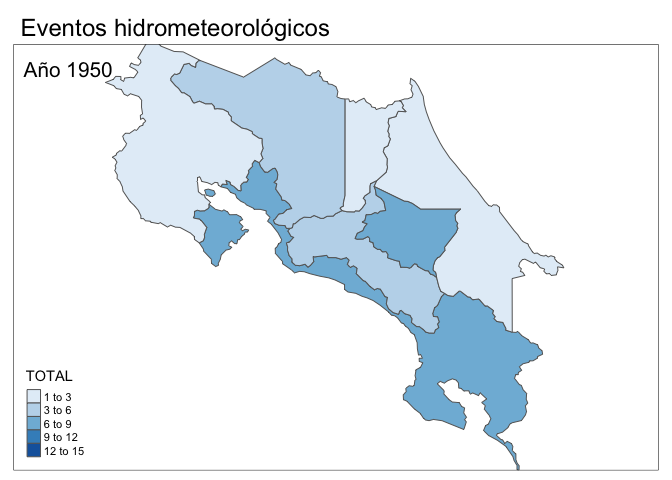
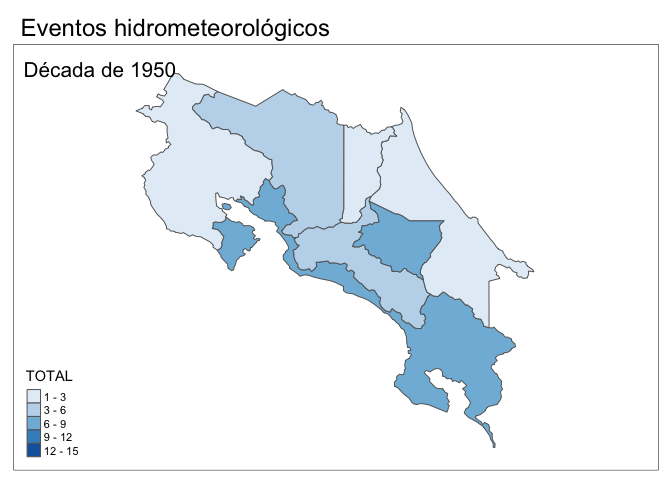
Mejora de texto y actualización de gráficos y mapas:

Changed region(s): [[0.0312, 0.0938, 0.8438, 0.9688], [0.0625, 0.8125, 0.125, 0.9688]]

diff --git a/AnalisisDesastresCR.md b/AnalisisDesastresCR.md
@@ -1,7 +1,7 @@
 Visualización de la base de datos de desastres en Costa Rica
 ================
 Guillermo Durán Sanabria
-11/16/2018
+11/29/2018
 
 El objetivo de este tutorial es hacer un análisis temporal y geográfico
 de los desastres relacionados a eventos hidrometeorológicos y
@@ -9,26 +9,31 @@ deslizamientos en Costa Rica. El análisis se llevará a cabo utilizando
 datos publicos generados por distintas instituciones gubernamentales de
 Costa Rica.
 
+-----
+
 ### Procedencia de los datos
 
-Los datos se extrayeron del pdf de la 2nda edición del documento
-*Histórico de desastres en Costa Rica. Febrero 1723 - Abril 2017*
-elaborado por la **Comisión nacional de prevención de riesgos y atención
-de emergencias (CNE) de Costa Rica** utilizando la herramienta gratuita
-Tabula <https://tabula.technology>
+  - Los datos se extrayeron del pdf de la 2nda edición del documento
+    *Histórico de desastres en Costa Rica. Febrero 1723 - Abril 2017*
+    \[1\] elaborado por la [**Comisión nacional de prevención de riesgos
+    y atención de emergencias (CNE) de Costa
+    Rica**](https://www.cne.go.cr) utilizando la herramienta gratuita
+    [Tabula](https://tabula.technology)
 
-El documento pdf puede ser descargado en el siguiente enlace:
-<https://www.cne.go.cr/index.php/documentacienuprincipal-96/historico-de-desastres-en-costa-rica>
+<!-- end list -->
 
-Para el análisis se extrayeron del documento las tablas sobre los
-eventos hidrometeorológicos y deslizamientos. Se seleccionaron
-únicamente estos dos tipos de desastres por ser los que guardan una
-relación directa a variabilidad y cambio climático.
+  - Para el análisis se extrayeron del documento las tablas sobre los
+    eventos hidrometeorológicos y deslizamientos. Se seleccionaron
+    únicamente estos dos tipos de desastres por ser los que guardan una
+    relación directa con el clima.
 
-Este tutorial se llevará a cabo utilizando R junto con los paquetes del
-**tidyverse** para la manipulación de los datos y análisis de texto,
-**lubridate** para las series de tiempo, y los paquetes **sf** y
-**tmap** para el análisis espacial y generación de mapas.
+  - Este tutorial se llevará a cabo utilizando R junto con los paquetes
+    del **tidyverse** para la manipulación de los datos,**tidytext**
+    para el análisis de texto, **lubridate** para las series de tiempo,
+    y los paquetes **sf** y **tmap** para el análisis espacial y
+    generación de mapas.
+
+<!-- end list -->
 
 ``` r
 library(tidyverse)
@@ -37,12 +42,16 @@ library(sf)
 library(tmap)
 ```
 
-1.  Preparación de la tabla general, utilizando las tablas generadas en
-    Tabula (notese que la columna de FECHA se está importando como tipo
-    *date* y se están eliminando los encabezados de cada tabla
-    individual)
+-----
 
-<!-- end list -->
+### Intrucciones para realizar el análisis
+
+1.  Preparación de la tabla general utilizando las tablas generadas en
+    Tabula.
+
+Notese que la columna de FECHA se está importando como tipo *date* y se
+están eliminando los encabezados de cada tabla
+individual.
 
 ``` r
 tablahidro <- read_csv("datos/tabula-historico_desastres_hidrometeo.csv", 
@@ -60,8 +69,7 @@ tablaGeneral <- rbind(tablades, tablahidro) %>%  #juntamos ambas tablas en una t
   mutate(ID = row_number())
 ```
 
-Cronología con el número de eventos por cada tipo (Hidrometeorológicos y
-Deslizamientos) por año.
+Gráfico cronológico con el número de eventos por cada tipo de desastre.
 
 ``` r
 ggplot(tablaGeneral %>% 
@@ -76,14 +84,14 @@ ggplot(tablaGeneral %>%
 
 ![](AnalisisDesastresCR_files/figure-gfm/unnamed-chunk-3-1.png)<!-- -->
 
-2.  Asignación geográfica a los eventos.
+2.  Utilizando las descripciones de cada evento, trataremos de asignar
+    automáticamente las provincias que impactaron.
 
 Dado que la tabla no tiene un componente geográfico en su estructura,
-vamos a asignarle uno utilizando el siguiente código. Este crea una
-columna lógica por provincia y le asigna un **T** o **F** si el nombre
-de la provincia aparece en la columna *`TÍTULO DEL EVENTO`*. Se hizo de
-esta manera ya que hay varios eventos que reportaron daños en varias
-provincias.
+vamos a asignarle uno. El código crea una columna lógica por provincia y
+le asigna un **TRUE** o **FALSE** si el nombre de la provincia aparece
+en la columna *`TÍTULO DEL EVENTO`*. Se hizo de esta manera ya que hay
+varios eventos que reportaron daños en varias provincias.
 
 ``` r
 tablaGeneral_mod <- tablaGeneral %>% 
@@ -129,14 +137,14 @@ faltantes %>% summarise(n())
 Deberemos asignar provincia a los 49 eventos que quedaron sin asignar.
 
 Como el número de entradas que quedaron sin asignar no es tan grande, la
-asignación de las provincias podría hacerse fácilmente en un programa de
-hoja de cálculo (Excel, por ejemplo), pero también lo podemos hacer
-desde R.
+asignación de las provincias podría hacerse manualmente en un programa
+de hoja de cálculo (Excel, por ejemplo), pero también lo podemos hacer
+automáticamente desde R.
 
-Sería interesante hacer un conteo de las palabras más comunes en los
-títulos de esos 49 eventos en que no se les asignó provincia, para esto
-vamos a necesitar el paquete tidytext y un vector de *stop\_words* en
-Castellano.
+Para esto último debemos primero hacer un conteo de las palabras más
+comunes en los títulos de esos 49 eventos utilizando los paquetes
+**tidytext** y un vector de *stop\_words* en Castellano del paquete
+**tm**.
 
 ``` r
 library(tm)
@@ -160,6 +168,8 @@ custom_stop_words <- bind_rows(
              lexicon = "custom")) %>% 
   filter(lexicon == "custom")
 ```
+
+Conteo de palabras en las descripciones de los eventos:
 
 ``` r
 faltantes %>% select(ID, Desc) %>%
@@ -185,14 +195,14 @@ faltantes %>% select(ID, Desc) %>%
     ## 10 presión         10
     ## # ... with 122 more rows
 
-Viendo las palabras más comunes es posible darnos cuenta que hay frases
-que debemos de asignar a provincias, estas son: **Vertiente Caribe:
-Limón, Alajuela, Heredia, Cartago** **Vertiente Caribe = Zona
-Atlántica** **Zona Norte: Alajuela y Heredia** **Valle Central:
-Heredia, San José, Alajuela y Cartago** **Zona Sur: Puntarenas**
+Viendo las palabras más comunes nos damos cuenta que hay frases que
+podemos asignar a las provincias, estas son: - **Vertiente Caribe:
+Limón, Alajuela, Heredia, Cartago** - **Vertiente Caribe = Zona
+Atlántica** - **Zona Norte: Alajuela y Heredia** - **Valle Central:
+Heredia, San José, Alajuela y Cartago** - **Zona Sur: Puntarenas**
 
-Escribimos un script que asocie esas palabras las asocie a las
-provincias respectivas:
+Escribimos un script que asocie esas palabras con las provincias
+respectivas:
 
 ``` r
 faltantes_mod <- faltantes %>% 
@@ -219,7 +229,8 @@ faltantes_mod <- faltantes %>%
                          TRUE, .)))
 ```
 
-Faltantes:
+Aún luego del paso anterior nos quedan varios eventos sin provincia
+asignada:
 
 ``` r
 faltantes2 <- faltantes_mod %>% 
@@ -255,8 +266,8 @@ faltantes2
     ## #   GUANACASTE <lgl>, SANJOSE <lgl>, HEREDIA <lgl>, ALAJUELA <lgl>,
     ## #   PUNTARENAS <lgl>, CARTAGO <lgl>, LIMON <lgl>, total <int>
 
-Revisando las descripciones de los últimos que quedan por asignar vemos
-que muchos son huracanes, tormentas (tropicales) y sistemas de baja
+Revisando las descripciones de los que quedan por asignar vemos que
+muchos son huracanes, tormentas (tropicales) y sistemas de baja
 (presión):
 
 ``` r
@@ -307,7 +318,7 @@ faltantes2_mod <- faltantes2 %>%
                                     regex("sistema\\s*\\w*\\sbaja presión", ignore_case = TRUE)), TRUE, .)))
 ```
 
-Faltantes:
+Las faltantes luego del paso anterior:
 
 ``` r
 faltantes3 <- faltantes2_mod %>% 
@@ -339,7 +350,7 @@ ALAJUELAm <- c(62, 98, 101, 103, 104, 105)
 LIMONm <- c(21, 49, 62, 63, 67, 94, 98, 101, 103, 104, 105) 
 ```
 
-Asignar valores **TRUE** a las filas correspondientes (número en cada
+Asignamos valores **TRUE** a las filas correspondientes (número en cada
 vector) de las columnas de cada provincia.
 
 ``` r
@@ -353,7 +364,7 @@ faltantes3_mod <- faltantes3 %>%
          LIMON = if_else(ID %in% LIMONm, TRUE, FALSE))
 ```
 
-Juntar todas las tablas:
+Juntamos todas las tablas:
 
 ``` r
 tablaGLimpia <- rbind(faltantes3_mod, 
@@ -369,21 +380,33 @@ tablaGLimpia <- rbind(faltantes3_mod,
   select(-Desc, -total)
 ```
 
-Gráfico de número de desastres por provincia:
+Finalmente podemos graficar el número de desastres totales por
+provincia:
 
 ``` r
 ggplot(tablaGLimpia %>% 
          select(5, 7:13) %>% 
          group_by(TIPO) %>% 
          summarise_all(funs(sum(.))) %>% 
-         gather(key = PROVINCIA, value = TOTAL, -TIPO), 
+         gather(key = PROVINCIA, value = TOTAL, -TIPO) %>% 
+         mutate(PROVINCIA = replace(PROVINCIA, PROVINCIA == "SANJOSE", "San José"), 
+                PROVINCIA = replace(PROVINCIA, PROVINCIA == "GUANACASTE", "Guanacaste"),
+                PROVINCIA = replace(PROVINCIA, PROVINCIA == "LIMON", "Limón"),
+                PROVINCIA = replace(PROVINCIA, PROVINCIA == "HEREDIA", "Heredia"),
+                PROVINCIA = replace(PROVINCIA, PROVINCIA == "PUNTARENAS", "Puntarenas"),
+                PROVINCIA = replace(PROVINCIA, PROVINCIA == "CARTAGO", "Cartago"),
+                PROVINCIA = replace(PROVINCIA, PROVINCIA == "ALAJUELA", "Alajuela")), 
        aes(x = PROVINCIA, y = TOTAL, fill = TIPO)) +
-  geom_col()
+  geom_col() +
+  labs(x = "Provincia", y = "Número total de eventos", fill = "Tipo de evento")
 ```
 
 ![](AnalisisDesastresCR_files/figure-gfm/unnamed-chunk-18-1.png)<!-- -->
 
-Descargar datos geográficos de límites provinciales y toponimia.
+3.  Creación de mapas
+
+Descargamos los datos geográficos de límites provinciales y toponimia
+del **Sistema Nacional de Información Territorial** (SNIT).
 
 ``` r
 library(gdalUtils)
@@ -449,9 +472,11 @@ poblados_geo <- st_read(dsn_pob, "IGN_NG:toponimos_25k")
     ## epsg (SRID):    5367
     ## proj4string:    +proj=tmerc +lat_0=0 +lon_0=-84 +k=0.9999 +x_0=500000 +y_0=0 +ellps=WGS84 +towgs84=0,0,0,0,0,0,0 +units=m +no_defs
 
-\#\#Mapa con total de incidentes por provincias:
+### Mapas con número de eventos por provincias:
 
-Conteo de eventos por provincia
+Primero hacemos un conteo de eventos por provincia y hacemos una unión
+de tablas utilizando el límite provincial descargado en el paso anterior
+(notese que este último es un objeto **sf**)
 
 ``` r
 numProvin <- provincias_geo %>% 
@@ -474,22 +499,24 @@ numProvin <- provincias_geo %>%
     ## Warning: Column `nom_prov`/`PROVINCIA` joining factor and character vector,
     ## coercing into character vector
 
-Mapa:
+Generación de los mapas:
 
 ``` r
 library(tmap)
 
-bbox <- st_bbox(c(xmin = 270000, xmax = 680000, ymax = 1230000, ymin = 900000))
+bbox <- st_bbox(c(xmin = 270000, xmax = 680000, ymax = 1260000, ymin = 880000))
 
 tm_hidro <- tm_shape(numProvin %>% filter(TIPO == "Hidrometeorológicos"),
                      bbox = bbox) +
   tm_polygons(col = "TOTAL", palette = "Blues") +
-  tm_layout(title = "Eventos hidrometeorológicos")
+  tm_layout(title = "Eventos hidrometeorológicos",
+            legend.format = list(text.separator = "-"))
 
 tm_deliz <- tm_shape(numProvin %>% filter(TIPO == "Deslizamientos"),
                      bbox = bbox) +
   tm_polygons(col = "TOTAL") +
-  tm_layout(title = "Deslizamientos")
+  tm_layout(title = "Deslizamientos",
+            legend.format = list(text.separator = "-"))
 
 tmap_arrange(tm_hidro, tm_deliz)
 ```
@@ -535,7 +562,7 @@ ggplot(numProvinDecada, aes(x = nom_prov, y = TOTAL, fill = TIPO)) +
 
 ![](AnalisisDesastresCR_files/figure-gfm/unnamed-chunk-23-1.png)<!-- -->
 
-## Mapas por década:
+### Mapas por década:
 
 Preparación de los datos
 
@@ -590,8 +617,8 @@ funMapasDec <- function(dec) {
                 breaks = c(1, 3, 6, 9, 12, 15),
                 colorNA = "white") +
     tm_layout(main.title = "Eventos hidrometeorológicos",
-              title = paste0("Año ", dec),
-              legend.format=list(fun=function(x) formatC(x, digits=0, format="d")))
+              title = paste0("Década de ", dec),
+              legend.format=list(fun=function(x) formatC(x, digits=0, format="d"), text.separator = "-"))
   
   if (is.element("Deslizamientos", numProvinDecada %>% 
                  filter(DECADA == dec) %>% 
@@ -604,7 +631,7 @@ funMapasDec <- function(dec) {
                   style = "fixed",
                   breaks = c(0, 1, 2, 3, 4, 5)) +
       tm_layout(main.title = "Deslizamientos",
-                legend.format=list(fun=function(x) formatC(x, digits=0, format="d")))
+                legend.format=list(fun=function(x) formatC(x, digits=0, format="d"), text.separator = "-"))
     
     tmap_arrange(tm_hidro, tm_deliz)
   } else {
@@ -654,3 +681,8 @@ map(decadas, funMapasDec)
 Y finalmente, el código de un app en Shiny que funcione para seleccionar
 el periodo de tiempo y nos muestrre un mapa de los eventos y la tabla
 con la descripción de los mismos.
+
+-----
+
+1.  El documento pdf puede descargarse del siguiente enlace:
+    <https://www.cne.go.cr/index.php/documentacienuprincipal-96/historico-de-desastres-en-costa-rica>
